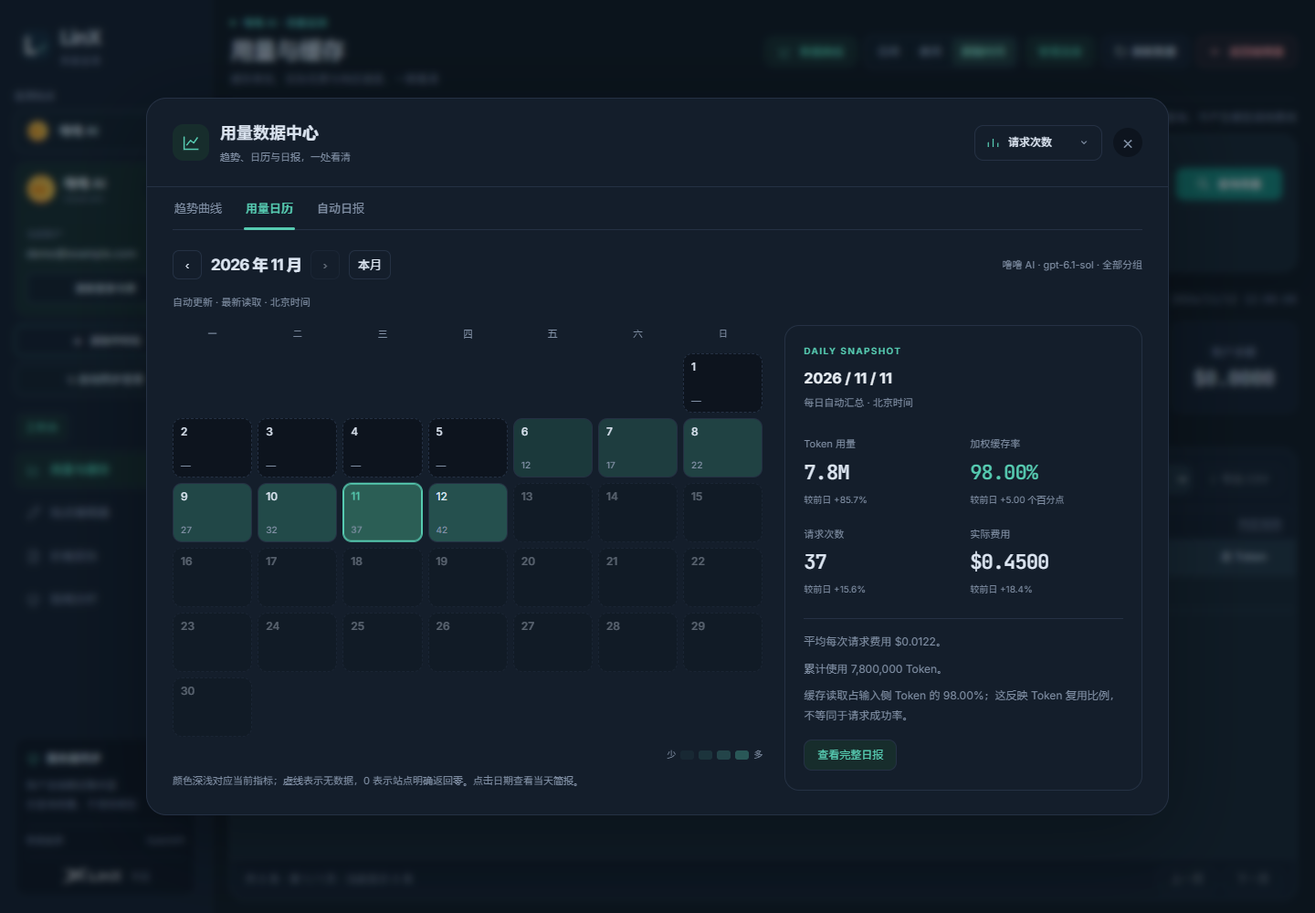
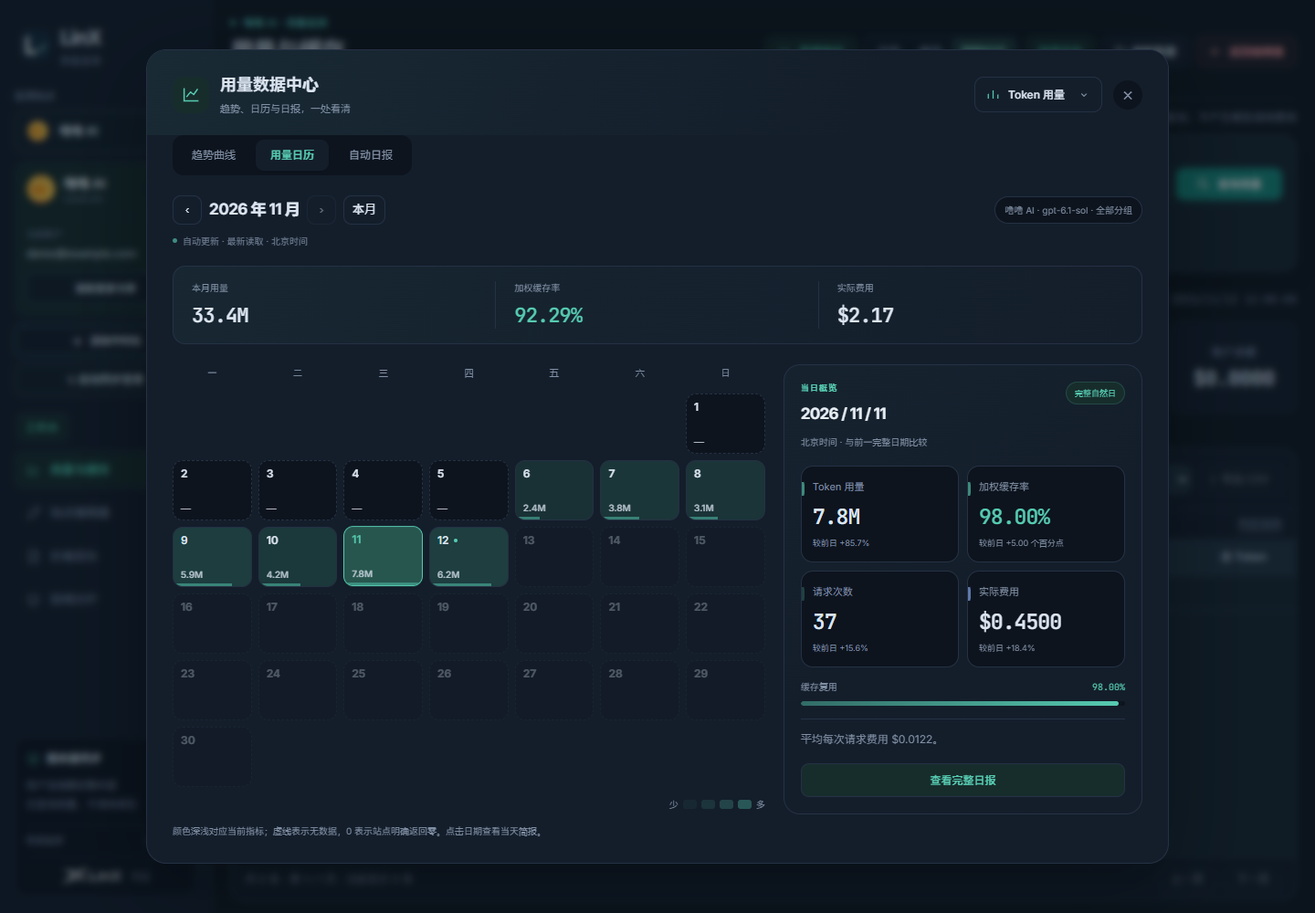
Share daily aggregates and refine usage insight views
Assisted-by: Cindy (https://cindy.app)

diff --git a/usage-trends.js b/usage-trends.js
@@ -9,6 +9,21 @@
  const el=id=>document.getElementById(id),canvas=panel.querySelector('canvas'),ctx=canvas.getContext('2d'),empty=panel.querySelector('.ut-empty'),tip=panel.querySelector('.ut-tip');
  let days='7',metric='total_tokens',points=[],lastKey='',lastFetch=0,controller=null,ticket=0,hover=-1,collapsed=false,latest=null;
  const trendMemory=new Map();let paintedKey='';
+ // One shared range and one in-flight request for all three views.
+ const dailyPool=new Map();
+ function connectionIdentity(sid){return typeof siteList==='undefined'?'':siteList.find(s=>s.site_id===sid)?.connected_at||''}
+ function sharedRange(q){const today=dateDay(new Date()),endMonth=q.end_date.slice(0,7),d=new Date(endMonth+'-01T12:00:00+08:00');d.setUTCMonth(d.getUTCMonth()-1);let start=dateDay(d);d.setUTCMonth(d.getUTCMonth()+2);let end=dateDay(new Date(+d-86400000));if(end>today)end=today;if(q.start_date<start)start=q.start_date;if(q.end_date>end)end=q.end_date;if((new Date(end)-new Date(start))/86400000>90)return {...q};return {...q,start_date:start,end_date:end}}
+ function poolEntry(q){const range=sharedRange(q),key=JSON.stringify([range,connectionIdentity(q.site_id)]);return {range,key,entry:dailyPool.get(key)}}
+ function cachedDaily(q){const {entry}=poolEntry(q);return entry?.data?{...entry.data,points:entry.data.points.filter(p=>p.date>=q.start_date&&p.date<=q.end_date)}:null}
+ async function readDaily(q){
+  const {range,key}=poolEntry(q);let entry=dailyPool.get(key);if(entry?.data&&Date.now()-entry.at<60000)return cachedDaily(q);
+  if(!entry){entry={};dailyPool.set(key,entry);if(dailyPool.size>20){const old=[...dailyPool].find(([k,v])=>k!==key&&!v.promise);if(old)dailyPool.delete(old[0])}}
+  if(entry.error&&Date.now()-entry.failedAt<10000)throw entry.error;
+  if(!entry.promise){const request=new AbortController(),timeout=setTimeout(()=>request.abort(),35000);const identity=connectionIdentity(q.site_id);
+   entry.promise=(async()=>{try{const r=await fetch('/api/cache/trend?'+new URLSearchParams(range),{cache:'no-store',signal:request.signal}),d=await r.json();if(!r.ok)throw Error(d.error||'暂时无法读取逐天统计');if(!Array.isArray(d.points))throw Error('该站暂未提供兼容的逐天统计');if(identity!==connectionIdentity(q.site_id))throw Error('连接已更新，正在重新准备统计');entry.data=d;entry.at=Date.now();entry.error=null;return d}catch(e){entry.error=e.name==='AbortError'?Error('统计读取超时，请稍后重试'):e;entry.failedAt=Date.now();throw entry.error}finally{clearTimeout(timeout);entry.promise=null}})();
+  }
+  await entry.promise;return cachedDaily(q)
+ }
  collapsed=true;el('utClose').textContent='×';el('utClose').setAttribute('aria-label','关闭数据趋势');panel.setAttribute('aria-label','用量与缓存趋势');
  // Refined controls remain inside the native dialog's focus boundary.
  const heading=panel.querySelector('.ut-title');heading.innerHTML='<span class="ut-title-icon"><svg viewBox="0 0 24 24" aria-hidden="true"><path d="M3 4v16h18M6 15l5-6 4 3 5-7"/></svg></span><span>用量与缓存趋势<small>每天的使用变化，一眼看清</small></span>';
@@ -47,7 +62,7 @@
   if(saved&&!force&&Date.now()-saved.at<60000){lastKey=key;lastFetch=saved.at;return}
   if(controller)controller.abort();controller=new AbortController();const own=controller,seq=++ticket;const changed=key!==lastKey;lastKey=key;
   if(changed&&!saved){points=[];paintedKey='';hover=-1;tip.hidden=true;draw();empty.textContent='正在读取逐天统计…';empty.hidden=false}
-  try{const r=await fetch('/api/cache/trend?'+new URLSearchParams(q),{cache:'no-store',signal:own.signal});const d=await r.json();if(seq!==ticket)return;if(!r.ok)throw Error(d.error||'趋势暂时不可用');if(!Array.isArray(d.points))throw Error('该站暂未提供逐天趋势');points=d.points;latest=d;lastFetch=Date.now();paintedKey=key;trendMemory.set(key,{data:d,at:lastFetch});if(trendMemory.size>20)trendMemory.delete(trendMemory.keys().next().value);empty.hidden=points.some(p=>p[metric]!=null||p.cache_rate!=null);empty.textContent='这段时间暂无可展示的统计';el('utContext').textContent=q.start_date.slice(5).replace('-','/')+' – '+q.end_date.slice(5).replace('-','/')+' · '+(q.model||'全部模型')+(q.group_id?' · 所选分组':' · 全部分组');draw()}
+  try{const d=await readDaily(q);if(seq!==ticket)return;points=d.points;latest=d;lastFetch=Date.now();paintedKey=key;trendMemory.set(key,{data:d,at:lastFetch});if(trendMemory.size>20)trendMemory.delete(trendMemory.keys().next().value);empty.hidden=points.some(p=>p[metric]!=null||p.cache_rate!=null);empty.textContent='这段时间暂无可展示的统计';el('utContext').textContent=q.start_date.slice(5).replace('-','/')+' — '+q.end_date.slice(5).replace('-','/')+' · '+(q.model||'全部模型')+(q.group_id?' · 所选分组':' · 全部分组');draw()}
   catch(e){if(seq!==ticket||e.name==='AbortError')return;empty.textContent=e.message;empty.hidden=false;lastFetch=Date.now()}
   finally{if(controller===own)controller=null}
  }
@@ -85,28 +100,29 @@
  function num(value,m='total_tokens'){if(value==null)return '—';if(m==='actual_cost')return '$'+Number(value).toFixed(value<1?4:2);return new Intl.NumberFormat('en',{notation:'compact',maximumFractionDigits:2}).format(value)}
  function node(tag,cls,text){const n=document.createElement(tag);if(cls)n.className=cls;if(text!=null)n.textContent=text;return n}
  function button(text,action,label){const b=node('button','',text);b.type='button';b.onclick=action;if(label)b.setAttribute('aria-label',label);return b}
- function insightQuery(){const q=query();if(!q)return null;const today=dateDay(new Date());let start,end;if(insightView==='report'){end=selectedDay;start=shiftDay(end,-1)}else{start=shiftDay(month+'-01',-1);const d=new Date(month+'-01T12:00:00+08:00');d.setUTCMonth(d.getUTCMonth()+1);end=shiftDay(dateDay(d),-1);if(end>today)end=today}return {...q,start_date:start,end_date:end}}
+ function insightQuery(){const q=query();if(!q)return null;const today=dateDay(new Date()),target=insightView==='report'?selectedDay.slice(0,7):month;const start=shiftDay(target+'-01',-7),d=new Date(target+'-01T12:00:00+08:00');d.setUTCMonth(d.getUTCMonth()+1);let end=shiftDay(dateDay(d),-1);if(end>today)end=today;return {...q,start_date:start,end_date:end}}
  async function loadInsights(force=false){
   if(insightView==='trend'||!panel.open)return;const q=insightQuery();if(!q)return;
   const identity=typeof siteList==='undefined'?'':siteList.find(s=>s.site_id===q.site_id)?.connected_at||'';
   const key=JSON.stringify([q,identity]);if(typeof connected==='undefined'||!connected){if(insightAbort)insightAbort.abort();insightAbort=null;insightKey='';insightGeneration++;insightData=null;insightError='请先连接站点账户，再查看用量日历和日报。';renderInsights();return}
   if(key===insightKey&&(insightAbort||(!force&&Date.now()-insightFetched<60000)))return;
   if(insightAbort)insightAbort.abort();insightAbort=new AbortController();const own=insightAbort,generation=++insightGeneration;
-  if(key!==insightKey){insightData=insightMemory.get(key)?.data||null;insightFetched=insightMemory.get(key)?.at||0;insightError='';insightKey=key;renderInsights()}
+  if(key!==insightKey){const shared=cachedDaily(q);insightData=shared||insightMemory.get(key)?.data||null;insightFetched=shared?poolEntry(q).entry.at:insightMemory.get(key)?.at||0;insightError='';insightKey=key;renderInsights()}
   if(!force&&insightData&&Date.now()-insightFetched<60000){insightAbort=null;return}
-  try{const response=await fetch('/api/cache/trend?'+new URLSearchParams(q),{cache:'no-store',signal:own.signal});const data=await response.json();if(generation!==insightGeneration)return;if(!response.ok)throw Error(data.error||'暂时无法读取逐天统计');if(!Array.isArray(data.points))throw Error('该站暂未提供兼容的逐天统计');insightData=data;insightError='';insightFetched=Date.now();insightMemory.set(key,{data,at:insightFetched});if(insightMemory.size>20)insightMemory.delete(insightMemory.keys().next().value);renderInsights()}
+  try{const data=await readDaily(q);if(generation!==insightGeneration)return;insightData=data;insightError='';insightFetched=Date.now();insightMemory.set(key,{data,at:insightFetched});if(insightMemory.size>20)insightMemory.delete(insightMemory.keys().next().value);renderInsights()}
   catch(e){if(generation!==insightGeneration||e.name==='AbortError')return;insightError=e.message;insightFetched=Date.now();renderInsights()}
   finally{if(insightAbort===own)insightAbort=null}
  }
  function comparison(current,previous,field,today){if(current==null)return '当天暂无该指标';if(today)return '今日进行中 · 不与昨日全天比较';if(previous==null)return '前一日无完整数据';const delta=current-previous;if(field==='cache_rate')return '较前日 '+(delta>0?'+':'')+delta.toFixed(2)+' 个百分点';if(previous===0)return delta===0?'与前日持平':'前一日为 0，不计算增幅';return '较前日 '+(delta>0?'+':'')+(delta/previous*100).toFixed(1)+'%'}
  function dailyCard(date,compactCard=false){
   const today=dateDay(new Date()),data=insightData?.points||[],p=data.find(p=>p.date===date),prev=data.find(p=>p.date===shiftDay(date,-1)),card=node('section','ui-card');
-  card.append(node('div','ui-kicker',compactCard?'DAILY SNAPSHOT':'DAILY BRIEF'),node('h3','',date.replaceAll('-',' / ')),node('div','ui-caption',date===today?'今日进行中 · 截至最新读取': '每日自动汇总 · 北京时间'));
+  const head=node('div','ui-card-heading'),title=node('div');title.append(node('div','ui-kicker',compactCard?'当日概览':'DAILY BRIEF / 每日简报'),node('h3','',date.replaceAll('-',' / ')));head.append(title,node('span','ui-day-status',date===today?'今日进行中':'完整自然日'));card.append(head,node('div','ui-caption',date===today?'截至最新读取 · 今日不与昨日全天比较':'北京时间 · 与前一完整日期比较'));
   if(!p||!['total_tokens','requests','actual_cost','cache_rate'].some(k=>p[k]!=null)){card.append(node('div','ui-message','这一天暂无可用统计。未返回的数据不会按 0 计算。'));return card}
-  const stats=node('div','ui-stats');for(const [field,label] of [['total_tokens','Token 用量'],['cache_rate','加权缓存率'],['requests','请求次数'],['actual_cost','实际费用']]){const cell=node('div');cell.append(node('span','',label),node('strong',field==='cache_rate'?'ui-rate':'',field==='cache_rate'?(p[field]==null?'—':p[field].toFixed(2)+'%'):num(p[field],field)),node('small','',comparison(p[field],prev?.[field],field,date===today)));stats.append(cell)}card.append(stats);
+  const stats=node('div','ui-stats');for(const [field,label] of [['total_tokens','Token 用量'],['cache_rate','加权缓存率'],['requests','请求次数'],['actual_cost','实际费用']]){const cell=node('div','ui-stat ui-stat-'+field);cell.append(node('span','',label),node('strong',field==='cache_rate'?'ui-rate':'',field==='cache_rate'?(p[field]==null?'—':p[field].toFixed(2)+'%'):num(p[field],field)));if(date!==today)cell.append(node('small','',comparison(p[field],prev?.[field],field,false)));stats.append(cell)}card.append(stats);
+  if(p.cache_rate!=null){const reuse=node('div','ui-reuse'),labels=node('div','ui-reuse-labels');labels.append(node('span','','缓存复用'),node('span','',p.cache_rate.toFixed(2)+'%'));const track=node('div','ui-reuse-track'),fill=node('i');fill.style.width=Math.max(0,Math.min(100,p.cache_rate))+'%';track.append(fill);reuse.append(labels,track);card.append(reuse)}
   const copy=node('div','ui-report-copy');if(p.requests!=null&&p.actual_cost!=null&&p.requests>0)copy.append(node('p','','平均每次请求费用 '+num(p.actual_cost/p.requests,'actual_cost')+'。'));
-  if(p.total_tokens!=null)copy.append(node('p','','累计使用 '+Number(p.total_tokens).toLocaleString('en-US')+' Token。'));
-  copy.append(node('p','',p.cache_rate==null?'缺少有效输入量，暂不计算缓存率。':'缓存读取占输入侧 Token 的 '+p.cache_rate.toFixed(2)+'%；这反映 Token 复用比例，不等同于请求成功率。'));card.append(copy);
+  if(p.total_tokens!=null&&!compactCard)copy.append(node('p','','累计使用 '+Number(p.total_tokens).toLocaleString('en-US')+' Token。'));
+  if(p.cache_rate==null)copy.append(node('p','','缺少有效输入量，暂不计算缓存率。'));card.append(copy);
   if(compactCard){const actions=node('div','ui-actions');actions.append(button('查看完整日报',()=>setInsightView('report')));card.append(actions)}return card
  }
  function renderInsights(){
@@ -117,23 +133,35 @@
   }else{toolbar.append(node('strong','','每日用量简报'));const date=node('input','ui-date');date.type='date';date.max=today;date.value=selectedDay;date.setAttribute('aria-label','日报日期');date.onchange=()=>{if(!/^\d{4}-\d{2}-\d{2}$/.test(date.value)||date.value>today)return;selectedDay=date.value;renderInsights();loadInsights()};toolbar.append(date,button('昨天',()=>{selectedDay=shiftDay(today,-1);renderInsights();loadInsights()}),button('今天',()=>{selectedDay=today;renderInsights();loadInsights()}))}
   const site=typeof siteList==='undefined'?null:siteList.find(s=>s.site_id===q?.site_id);toolbar.append(node('span','ui-caption ui-scope',(site?.name||site?.site_name||q?.site_id||'')+' · '+(q?.model||'全部模型')+' · '+(q?.group_id?'当前分组':'全部分组')));insights.append(toolbar);
   const state=node('div','ui-state');state.setAttribute('role','status');state.textContent=insightError?(insightData?'更新失败，以下为上次读取的统计：':'')+insightError:!insightData?'正在读取逐天统计…':'自动更新 · '+(insightData.fetched_at?new Date(insightData.fetched_at).toLocaleString('zh-CN',{timeZone:'Asia/Shanghai',hour12:false}):'最新读取')+' · 北京时间';insights.append(state);
-  if(!insightData){if(insightError)insights.append(button('重试',()=>loadInsights(true)));return}
+  if(!insightData){if(insightError)insights.append(button('重试',()=>loadInsights(true)));else{const skeleton=node('div','ui-loading');skeleton.setAttribute('aria-hidden','true');for(let i=0;i<6;i++)skeleton.append(node('i'));insights.append(skeleton)}return}
   if(insightView==='report'){
-   const grid=node('div','ui-report-grid');grid.append(dailyCard(selectedDay));const notes=node('div','ui-card');notes.append(node('div','ui-kicker','ABOUT THIS REPORT'),node('h3','','自动生成，无需整理'));const list=node('ul','ui-notes');for(const [title,text] of [['每天都有一份','根据站点逐天统计自动生成，打开即看；历史日报可通过日期切换。'],['遵循当前筛选','只统计当前站点、模型与分组，切换站点后自动更新。'],['比较有明确口径','完整日期与前一天比较；今天只展示累计，缺失数据保留为空。'],['统计来源','费用、请求数与 Token 来自中转站的日聚合接口；不把这些指标推断为失败扣费或验纯结论。']]){const li=node('li');li.append(node('b','',title),document.createTextNode(text));list.append(li)}notes.append(list);grid.append(notes);insights.append(grid);
+   const grid=node('div','ui-report-grid');grid.append(dailyCard(selectedDay),rhythmCard(selectedDay));insights.append(grid);
   }else{
+   insights.append(monthOverview());
    const layout=node('div','ui-layout'),left=node('div'),calendar=node('div','ui-calendar');calendar.setAttribute('aria-label',month+' 用量日历');
    for(const label of ['一','二','三','四','五','六','日'])calendar.append(node('div','ui-week',label));
    const first=new Date(month+'-01T12:00:00+08:00'),offset=(first.getUTCDay()+6)%7;for(let i=0;i<offset;i++)calendar.append(node('span'));
    const next=new Date(first);next.setUTCMonth(next.getUTCMonth()+1);const count=Number(shiftDay(dateDay(next),-1).slice(-2)),data=insightData.points.filter(p=>p.date.startsWith(month)),max=Math.max(0,...data.map(p=>p[metric]||0));
-   for(let day=1;day<=count;day++){const date=month+'-'+String(day).padStart(2,'0'),p=data.find(p=>p.date===date),value=p?.[metric],future=date>today,b=button('',()=>{selectedDay=date;renderInsights()});b.className='ui-day'+(value==null?' ui-missing':'');b.disabled=future;b.setAttribute('aria-pressed',String(date===selectedDay));b.setAttribute('aria-label',date+'，'+(future?'未来日期':value==null?'无数据':select.selectedOptions[0].textContent+' '+num(value,metric)));b.style.setProperty('--heat',value==null||!max?0:String(.05+.28*Math.sqrt(value/max)));b.append(node('span','',String(day)),node('small','',future?'':num(value,metric)));calendar.append(b)}
+   for(let day=1;day<=count;day++){const date=month+'-'+String(day).padStart(2,'0'),p=data.find(p=>p.date===date),value=p?.[metric],future=date>today,b=button('',()=>{selectedDay=date;renderInsights()});b.className='ui-day'+(value==null?' ui-missing':'')+(future?' ui-future':'')+(date===today?' ui-today':'');b.disabled=future;b.setAttribute('aria-pressed',String(date===selectedDay));b.setAttribute('aria-label',date+'，'+(future?'未来日期':value==null?'无数据':select.selectedOptions[0].textContent+' '+num(value,metric)));b.title=date+' · '+(future?'未来日期':value==null?'未返回数据':Number(value).toLocaleString('en-US'));b.style.setProperty('--heat',value==null||!max?0:String(.035+.22*Math.sqrt(value/max)));b.append(node('span','',String(day)),node('small','',future?'':num(value,metric)));if(value!=null){const meter=node('i','ui-day-meter');meter.style.width=(max?Math.max(3,value/max*100):0)+'%';b.append(meter)}calendar.append(b)}
    left.append(calendar);const legend=node('div','ui-legend');legend.append(document.createTextNode('少'));for(const opacity of [.06,.13,.22,.33]){const swatch=node('i');swatch.style.opacity=opacity;legend.append(swatch)}legend.append(document.createTextNode('多'));left.append(legend,node('div','ui-caption','颜色深浅对应当前指标；虚线表示无数据，0 表示站点明确返回零。点击日期查看当天简报。'));layout.append(left,dailyCard(selectedDay,true));insights.append(layout)
   }
+ }
+ function totals(data){const result={};for(const k of ['total_tokens','requests','actual_cost']){const known=data.filter(p=>p[k]!=null);result[k]=known.length?known.reduce((a,p)=>a+p[k],0):null}let denominator=0,read=0,complete=false;for(const p of data){if(p.total_tokens==null&&p.requests==null)continue;if([p.input_tokens,p.cache_creation_tokens,p.cache_read_tokens].some(v=>v==null)){return {...result,cache_rate:null}}complete=true;denominator+=p.input_tokens+p.cache_creation_tokens+p.cache_read_tokens;read+=p.cache_read_tokens}return {...result,cache_rate:complete&&denominator?read/denominator*100:null}}
+ function monthOverview(){const data=(insightData?.points||[]).filter(p=>p.date.startsWith(month)),sum=totals(data),strip=node('div','ui-month-overview');for(const [key,label] of [[metric,'本月'+(metric==='requests'?'请求':metric==='actual_cost'?'费用':'用量')],['cache_rate','加权缓存率'],[metric==='actual_cost'?'requests':'actual_cost',metric==='actual_cost'?'请求次数':'实际费用']]){const cell=node('div');cell.append(node('span','',label),node('strong','',key==='cache_rate'?(sum[key]==null?'—':sum[key].toFixed(2)+'%'):num(sum[key],key)));strip.append(cell)}const count=data.filter(p=>p[metric]!=null).length;strip.setAttribute('aria-label','本月已返回 '+count+' 天的统计汇总');strip.title='仅汇总已返回数据；未返回日期不按零计算';return strip}
+ function rhythmCard(date){
+  const card=node('section','ui-card ui-rhythm'),week=Array.from({length:7},(_,i)=>{const day=shiftDay(date,i-6);return (insightData?.points||[]).find(p=>p.date===day)||{date:day}}),summary=totals(week),valid=week.filter(p=>p.total_tokens!=null);
+  card.append(node('div','ui-kicker','PAST 7 DAYS'),node('h3','','近 7 日节奏'),node('div','ui-caption',week[0].date.slice(5).replace('-','/')+' — '+date.slice(5).replace('-','/')+' · '+valid.length+' 天有用量数据'));
+  const bars=node('div','ui-mini-bars'),max=Math.max(0,...week.map(p=>p.total_tokens||0));for(const p of week){const slot=node('div','ui-mini-slot'),track=node('div','ui-mini-track'),bar=node('i');if(p.total_tokens==null)track.classList.add('ui-no-value');else{bar.style.height=(max?Math.max(2,p.total_tokens/max*100):0)+'%';track.append(bar)}slot.title=p.date+' · '+num(p.total_tokens);slot.setAttribute('aria-label',slot.title);slot.append(track,node('span','',p.date.slice(8)));bars.append(slot)}card.append(bars);
+  const rows=node('div','ui-period-facts');for(const [label,value] of [['累计用量',num(summary.total_tokens)],['实际费用',num(summary.actual_cost,'actual_cost')],['请求次数',num(summary.requests)],['加权缓存率',summary.cache_rate==null?'—':summary.cache_rate.toFixed(2)+'%']]){const row=node('div');row.append(node('span','',label),node('strong','',value));rows.append(row)}card.append(rows);
+  const help=node('details','ui-method');help.append(node('summary','','统计口径'),node('p','','当前站点、模型及分组的日聚合数据；日期按北京时间。缓存率按输入 Token 加权，表示复用比例。未返回数据保留为空，今天为进行中。'));card.append(help);return card
  }
  function changeMonth(delta){const d=new Date(month+'-01T12:00:00+08:00');d.setUTCMonth(d.getUTCMonth()+delta);month=dateDay(d).slice(0,7);selectedDay=month===dateDay(new Date()).slice(0,7)?dateDay(new Date()):month+'-01';renderInsights();loadInsights()}
  select.addEventListener('change',renderInsights);openButton.addEventListener('click',()=>{if(insightView!=='trend')loadInsights()});
  let insightToday=dateDay(new Date());setInterval(()=>{const now=dateDay(new Date());if(now!==insightToday){if(month===insightToday.slice(0,7))month=now.slice(0,7);if(selectedDay===shiftDay(insightToday,-1))selectedDay=shiftDay(now,-1);insightToday=now;insightFetched=0}loadInsights()},1500);
  heading.querySelector('span:last-child').replaceChildren(document.createTextNode('用量数据中心'),node('small','','趋势、日历与日报，一处看清'));panel.setAttribute('aria-label','用量数据中心');
  insightsStyle.textContent+='html body#cache-dashboard #usageTrend .ui-day.ui-missing{border-style:dashed!important}html body#cache-dashboard #usageTrend .ui-toolbar button,html body#cache-dashboard #usageTrend .ui-date{background:var(--surface)!important;color:var(--ink)!important;border:1px solid var(--line)!important;color-scheme:light}html[data-theme=dark] body#cache-dashboard #usageTrend .ui-date{color-scheme:dark}';
+ insightsStyle.textContent+='#usageTrend .ut-head{background:linear-gradient(115deg,color-mix(in srgb,var(--brand) 7%,var(--surface)),var(--surface) 70%);border-bottom:0;padding-bottom:20px}#usageTrend .ui-tabs{gap:6px;border:0;padding:5px;background:var(--bg);border-radius:12px;margin-top:0;margin-bottom:2px;width:fit-content}#usageTrend .ui-tabs button{height:34px;padding:0 16px;border-radius:9px;font-size:12px}#usageTrend .ui-tabs button[aria-selected=true]{background:var(--surface)!important;box-shadow:0 2px 7px rgb(0 0 0 / .07)!important}#usageTrend .ui-tabs button[aria-selected=true]:after{display:none}#usageTrend .ui-content{padding-top:20px}#usageTrend .ui-toolbar{margin-bottom:9px;gap:8px}#usageTrend .ui-toolbar button{height:32px;border-radius:9px}#usageTrend .ui-state{font-size:10px;margin-bottom:18px;opacity:.85;display:flex;align-items:center;gap:6px}#usageTrend .ui-state:before{content:"";width:5px;height:5px;flex:none;background:var(--brand);border-radius:50%;opacity:.75}#usageTrend .ui-scope{font-size:10px;border:1px solid var(--line);border-radius:20px;padding:5px 10px;background:var(--bg)}#usageTrend .ui-card{background:linear-gradient(145deg,color-mix(in srgb,var(--brand) 3%,var(--surface)),var(--surface) 50%);padding:22px;border-radius:18px}#usageTrend .ui-card-heading{display:flex;align-items:flex-start;justify-content:space-between;gap:10px;margin-bottom:8px}#usageTrend .ui-card h3{font-size:19px;font-family:var(--linx-number-font,monospace);letter-spacing:-.04em;margin-bottom:0}#usageTrend .ui-kicker{font-size:9px;margin-bottom:10px;letter-spacing:.13em}#usageTrend .ui-day-status{background:var(--soft);color:var(--brand);border:1px solid color-mix(in srgb,var(--brand) 18%,transparent);border-radius:16px;padding:5px 9px;white-space:nowrap;font-size:9px}#usageTrend .ui-stats{gap:12px;margin:22px 0 18px}#usageTrend .ui-stat{border:1px solid var(--line);background:var(--bg);padding:16px;border-radius:13px;position:relative;overflow:hidden}#usageTrend .ui-stat:before{content:"";position:absolute;width:3px;top:17px;left:0;height:15px;border-radius:0 3px 3px 0;background:var(--brand);opacity:.65}#usageTrend .ui-stat-actual_cost:before{background:var(--info,#7c9cda)}#usageTrend .ui-stat-requests:before{opacity:.25}#usageTrend .ui-stats strong{font-size:25px;margin:11px 0 4px}#usageTrend .ui-report-grid .ui-stats strong{font-size:32px}#usageTrend .ui-stats small{font-size:10px;margin-top:9px}#usageTrend .ui-reuse{margin:18px 0 20px}#usageTrend .ui-reuse-labels{display:flex;justify-content:space-between;font-size:10px;color:var(--sub);margin-bottom:8px}#usageTrend .ui-reuse-labels span:last-child{font-family:var(--linx-number-font,monospace);color:var(--brand)}#usageTrend .ui-reuse-track{height:5px;border-radius:5px;background:var(--bg);overflow:hidden}#usageTrend .ui-reuse-track i{display:block;height:100%;background:linear-gradient(90deg,color-mix(in srgb,var(--brand) 45%,var(--surface)),var(--brand));border-radius:5px}#usageTrend .ui-report-copy{font-size:11px;padding-top:13px;line-height:1.8}#usageTrend .ui-report-copy p{margin-bottom:5px}#usageTrend .ui-report-grid{grid-template-columns:minmax(0,1.45fr) minmax(260px,1fr);align-items:start;gap:18px}#usageTrend .ui-rhythm h3{font-family:inherit;letter-spacing:0;font-size:17px;margin-bottom:8px}#usageTrend .ui-mini-bars{display:grid;grid-template-columns:repeat(7,minmax(0,1fr));gap:10px;margin:24px 0 18px}#usageTrend .ui-mini-track{height:96px;display:flex;align-items:flex-end;border-bottom:1px solid var(--line);padding:0 5px 0}#usageTrend .ui-mini-track i{display:block;width:100%;min-width:3px;border-radius:5px 5px 0 0;background:linear-gradient(0deg,color-mix(in srgb,var(--brand) 35%,var(--surface)),var(--brand));opacity:.8}#usageTrend .ui-mini-slot:last-child i{opacity:1}#usageTrend .ui-mini-slot span{display:block;text-align:center;font:10px var(--linx-number-font,monospace);color:var(--sub);margin-top:9px}#usageTrend .ui-no-value{border-bottom-style:dashed}#usageTrend .ui-period-facts>div{display:flex;align-items:center;justify-content:space-between;padding:12px 0;border-bottom:1px solid var(--line);gap:10px}#usageTrend .ui-period-facts span{color:var(--sub);font-size:11px}#usageTrend .ui-period-facts strong{font:550 15px var(--linx-number-font,monospace);color:var(--ink)}#usageTrend .ui-method{font-size:10px;color:var(--sub);line-height:1.9;margin-top:16px;border:0;padding:0;background:transparent}#usageTrend .ui-method summary{font-size:11px;cursor:pointer}#usageTrend .ui-method p{margin:8px 0 0}#usageTrend .ui-month-overview{display:grid;grid-template-columns:repeat(3,minmax(0,1fr));margin:0 0 22px;border:1px solid var(--line);border-radius:14px;background:linear-gradient(110deg,color-mix(in srgb,var(--brand) 5%,var(--surface)),var(--surface));padding:16px 0}#usageTrend .ui-month-overview>div{padding:0 20px;border-right:1px solid var(--line)}#usageTrend .ui-month-overview>div:last-child{border:0}#usageTrend .ui-month-overview span{display:block;font-size:10px;color:var(--sub)}#usageTrend .ui-month-overview strong{display:block;font:550 22px var(--linx-number-font,monospace);color:var(--ink);margin-top:8px;letter-spacing:-.04em}#usageTrend .ui-month-overview>div:nth-child(2) strong{color:var(--brand)}#usageTrend .ui-layout{gap:20px;align-items:start}#usageTrend .ui-calendar{gap:7px}html body#cache-dashboard #usageTrend .ui-day{height:66px;border-radius:11px;transition:border-color .15s,transform .15s,box-shadow .15s;isolation:isolate}#usageTrend .ui-day small{font-size:10px;font-weight:500;color:var(--ink);opacity:.8}#usageTrend .ui-day>span{font-size:12px;font-weight:600}html body#cache-dashboard #usageTrend .ui-day:not(:disabled):hover{transform:translateY(-2px);border-color:var(--brand)!important;box-shadow:0 4px 10px rgb(0 0 0 / .07)!important}#usageTrend .ui-day.ui-future{opacity:.3;border-color:transparent!important;background:transparent!important}#usageTrend .ui-day.ui-future:before{display:none}#usageTrend .ui-day.ui-today>span:after{content:"";display:inline-block;width:4px;height:4px;background:var(--brand);border-radius:50%;margin-left:5px;vertical-align:middle}#usageTrend .ui-day-meter{position:absolute;left:0;bottom:0;height:3px;background:var(--brand);opacity:.5}#usageTrend .ui-actions button{width:100%;height:37px;font-weight:600}#usageTrend .ui-caption{font-size:10px}@media(max-width:750px){#usageTrend .ui-report-grid{grid-template-columns:1fr}#usageTrend .ui-layout{grid-template-columns:1fr}#usageTrend .ui-card{padding:18px}#usageTrend .ui-stats{gap:10px}#usageTrend .ui-stat{padding:14px}#usageTrend .ui-report-grid .ui-stats strong{font-size:27px}#usageTrend .ui-month-overview>div{padding:0 12px}#usageTrend .ui-month-overview strong{font-size:18px}#usageTrend .ui-calendar{gap:5px}html body#cache-dashboard #usageTrend .ui-day{height:57px;border-radius:8px}#usageTrend .ui-day small{font-size:8px}#usageTrend .ui-tabs button{padding:0 12px;font-size:11px}#usageTrend .ui-scope{width:fit-content;max-width:100%;margin-top:3px}#usageTrend .ui-card h3{font-size:17px}#usageTrend .ui-stats strong{font-size:24px}#usageTrend .ui-day-status{font-size:8px;padding:5px 7px}}';
  document.addEventListener('visibilitychange',()=>{if(!document.hidden)loadInsights()});setInsightView('trend');
+ insightsStyle.textContent+='#usageTrend .ui-layout .ui-card{padding:18px}#usageTrend .ui-layout .ui-stats{margin:17px 0 12px;gap:9px}#usageTrend .ui-layout .ui-stat{padding:12px}#usageTrend .ui-layout .ui-stats strong{font-size:23px;margin:9px 0 3px}#usageTrend .ui-layout .ui-reuse{margin:14px 0}#usageTrend .ui-layout .ui-report-copy{padding-top:11px;font-size:10px}#usageTrend .ui-layout .ui-stats small{font-size:9px;margin-top:7px}#usageTrend .ui-layout .ui-card h3{font-size:17px}#usageTrend .ui-loading{display:grid;grid-template-columns:repeat(3,minmax(0,1fr));gap:14px;padding:12px 0}#usageTrend .ui-loading i{height:110px;border-radius:14px;border:1px solid var(--line);background:linear-gradient(100deg,var(--bg),var(--surface),var(--bg));background-size:200% 100%;animation:ui-shimmer 1.8s ease-in-out infinite}@keyframes ui-shimmer{to{background-position:-200% 0}}@media(prefers-reduced-motion:reduce){#usageTrend .ui-loading i{animation:none}#usageTrend .ui-day{transition:none!important}}@media(max-width:450px){#usageTrend .ui-month-overview strong{font-size:16px}#usageTrend .ui-month-overview>div{padding:0 9px}#usageTrend .ui-card-heading{gap:5px}#usageTrend .ui-loading{grid-template-columns:repeat(2,minmax(0,1fr))}#usageTrend .ui-layout .ui-stats strong{font-size:22px}#usageTrend .ui-day>span{font-size:11px}}';
  setInterval(()=>refresh(),1500);document.addEventListener('visibilitychange',()=>{if(!document.hidden)refresh()});
 })();

diff --git a/scripts/check_browser_sync_browser.py b/scripts/check_browser_sync_browser.py
@@ -64,8 +64,10 @@ def main():
                           'page_summary':{},'period_summary':{},'balance':0}
                 page.route('**/api/cache/snapshot?**',lambda route:route.fulfill(json=snapshot))
                 trend_points=[{'date':'2026-11-'+str(6+i).zfill(2),'total_tokens':v,'cache_rate':r,'requests':12+i*5,'actual_cost':.1+i*.07,'input_tokens':100-r,'cache_read_tokens':r,'cache_creation_tokens':0} for i,(v,r) in enumerate([(2400000,82),(3800000,91),(3100000,89),(5900000,96),(4200000,93),(7800000,98),(6200000,97)])]
+                trend_calls=[]
                 def trend_response(route):
                     q=parse_qs(urlparse(route.request.url).query)
+                    trend_calls.append(q)
                     pts=[] if q.get('model')==['fixture-other'] else [p for p in trend_points if q['start_date'][0]<=p['date']<=q['end_date'][0]]
                     route.fulfill(json={'points':pts,'site_id':q.get('site_id',['lulu'])[0]})
                 page.route('**/api/cache/trend?**',trend_response)
@@ -73,6 +75,7 @@ def main():
                 page.goto(origin+'/cache.html');page.wait_for_function('typeof siteList!=="undefined" && siteList.length && !busy')
                 assert not page.locator('#usageTrend').is_visible()
                 page.wait_for_function('document.querySelector("#utContext").textContent.includes("全部分组")')
+                assert len(trend_calls)==1,'background fetch should prepare all three views'
                 page.locator('#usageTrendOpen').click()
                 page.wait_for_function('document.querySelector("#utContext").textContent.includes("全部分组")')
                 page.screenshot(path=str(Path(tempfile.gettempdir())/'linx-usage-trends-light.png'))
@@ -95,6 +98,8 @@ def main():
                 page.locator('#usageTrendOpen').click()
                 page.locator('#uiTab-calendar').click()
                 page.wait_for_selector('.ui-day')
+                page.locator('#utPickerButton').click()
+                page.locator('#utPickerMenu [data-value="total_tokens"]').click()
                 page.locator('.ui-day[aria-label^="2026-11-11"]').click()
                 assert '7.8M' in page.locator('.ui-layout .ui-card').inner_text()
                 assert '98.00%' in page.locator('.ui-layout .ui-card').inner_text()
@@ -103,11 +108,13 @@ def main():
                 page.wait_for_selector('.ui-report-grid')
                 assert '+85.7%' in page.locator('.ui-report-grid').inner_text()
                 assert '+5.00' in page.locator('.ui-report-grid').inner_text()
+                assert len(trend_calls)==1,'calendar and report triggered duplicate upstream reads'
                 page.screenshot(path=str(Path(tempfile.gettempdir())/'linx-usage-report-dark.png'))
                 page.locator('.ui-date').fill('2026-11-05')
                 page.wait_for_function('document.querySelector(".ui-report-grid")?.textContent.includes("暂无可用统计")')
                 page.locator('.ui-date').fill('2026-11-11')
                 page.wait_for_function('document.querySelector(".ui-report-grid")?.textContent.includes("7.8M")')
+                assert len(trend_calls)==1,'changing the report day should reuse month aggregates'
                 original_model=page.evaluate('applied.model')
                 page.evaluate("applied.model='fixture-other'")
                 page.wait_for_function('document.querySelector(".ui-report-grid")?.textContent.includes("暂无可用统计")')
@@ -122,6 +129,12 @@ def main():
                 page.wait_for_selector('.ui-day')
                 assert page.locator('#uiInsights').evaluate('n=>n.scrollWidth<=n.clientWidth')
                 page.screenshot(path=str(Path(tempfile.gettempdir())/'linx-usage-calendar-mobile.png'))
+                page.set_viewport_size({'width':320,'height':740})
+                assert page.locator('#uiInsights').evaluate('n=>n.scrollWidth<=n.clientWidth')
+                page.locator('#uiTab-report').click()
+                assert page.locator('#uiInsights').evaluate('n=>n.scrollWidth<=n.clientWidth')
+                assert not page.locator('.ui-method').evaluate('n=>n.open')
+                page.set_viewport_size({'width':390,'height':844})
                 page.locator('#uiTab-trend').click()
                 page.keyboard.press('Escape')
                 page.set_viewport_size({'width':1440,'height':1000})

diff --git a/usage_trends.py b/usage_trends.py
@@ -6,6 +6,7 @@ import usage_sites
 from usage_dashboard import UsageError,SHANGHAI,number
 CACHE={}
 LOCK=threading.Lock()
+INFLIGHT={}
 
 def trend(params):
     get=lambda key,default='':str(params.get(key,[default])[0]).strip()
@@ -28,6 +29,41 @@ def trend(params):
     with LOCK:
         saved=CACHE.get(key)
         if saved and time.monotonic()-saved[0]<60:return saved[1]
+        # A month already read by another tab can also serve a shorter range.
+        for cached_key,(at,result) in reversed(list(CACHE.items())):
+            f=result['filters']
+            if (cached_key[:2]==key[:2] and time.monotonic()-at<60
+                and f.get('model','')==model and f.get('group_id','')==group
+                and f['start_date']<=str(start) and f['end_date']>=str(end)):
+                return dict(result,filters=filters,points=[p for p in result['points'] if str(start)<=p['date']<=str(end)])
+        flight=INFLIGHT.get(key)
+        owner=flight is None
+        if owner:
+            flight={'event':threading.Event(),'error':None}
+            INFLIGHT[key]=flight
+    if not owner:
+        if not flight['event'].wait(40):raise UsageError('统计读取超时，请稍后重试。',504,'TREND_TIMEOUT')
+        if flight['error'] is not None:raise flight['error']
+        if client.status().get('connected_at')!=identity:
+            raise UsageError('连接已变化，请重新读取趋势。',409,'CONNECT_REQUIRED')
+        return flight['result']
+    try:
+        result=_read(client,sid,identity,filters,start,end)
+        with LOCK:
+            if len(CACHE)>80:CACHE.clear()
+            CACHE[key]=(time.monotonic(),result)
+            flight['result']=result
+        return result
+    except Exception as error:
+        flight['error']=error
+        raise
+    finally:
+        with LOCK:
+            INFLIGHT.pop(key,None)
+            flight['event'].set()
+
+
+def _read(client,sid,identity,filters,start,end):
     raw=client.api('/api/v1/usage/dashboard/trend?'+urlencode(filters))
     if not isinstance(raw,dict) or not isinstance(raw.get('trend'),list):
         raise UsageError('该站暂未提供兼容的逐天趋势统计。',502,'TREND_UNAVAILABLE')
@@ -51,8 +87,4 @@ def trend(params):
         day+=timedelta(days=1)
     if client.status().get('connected_at')!=identity:
         raise UsageError('连接已变化，请重新读取趋势。',409,'CONNECT_REQUIRED')
-    result={'site_id':sid,'points':points,'filters':filters,'fetched_at':datetime.now(SHANGHAI).isoformat(timespec='seconds')}
-    with LOCK:
-        if len(CACHE)>80:CACHE.clear()
-        CACHE[key]=(time.monotonic(),result)
-    return result
+    return {'site_id':sid,'points':points,'filters':filters,'fetched_at':datetime.now(SHANGHAI).isoformat(timespec='seconds')}

diff --git a/tests/test_usage_trends.py b/tests/test_usage_trends.py
@@ -25,3 +25,31 @@ class TrendTests(unittest.TestCase):
             u.save_session(dict(u.load_session(),connected_at='changed'))
             t.trend(q);assert len(calls)==3
         ''')
+
+    def test_contained_range_and_simultaneous_read_share_upstream(self):
+        self.run_case('''
+            import usage_trends as t,usage_dashboard as u
+            import threading,time
+            from concurrent.futures import ThreadPoolExecutor
+            u.request=lambda *a,**k:{'id':1,'email':'demo@example.com'}
+            u.connect({'access_token':'fixture-token-for-testing-only'})
+            calls=[];started=threading.Event();release=threading.Event()
+            def upstream(path):
+                calls.append(path);started.set();assert release.wait(3)
+                return {'trend':[{'date':'2026-11-10','total_tokens':100,'requests':1}]}
+            u.api=upstream
+            q={k:[v] for k,v in {'site_id':'lulu','start_date':'2026-11-01','end_date':'2026-11-12','model':'gpt-6.1-sol'}.items()}
+            with ThreadPoolExecutor(max_workers=2) as pool:
+                first=pool.submit(t.trend,q);assert started.wait(2)
+                second=pool.submit(t.trend,q);time.sleep(.08);release.set()
+                a=first.result();b=second.result();assert a==b and len(calls)==1
+            smaller=dict(q,start_date=['2026-11-10'],end_date=['2026-11-11'])
+            result=t.trend(smaller);assert len(calls)==1
+            assert len(result['points'])==2 and result['points'][0]['total_tokens']==100
+            assert result['filters']['start_date']=='2026-11-10'
+            t.trend(dict(smaller,group_id=['2']));assert len(calls)==2
+            t.trend(dict(smaller,model=['other']));assert len(calls)==3
+            u.save_session(dict(u.load_session(),connected_at='changed'))
+            t.trend(smaller);assert len(calls)==4
+            assert not t.INFLIGHT
+        ''')

diff --git a/README.md b/README.md
@@ -55,7 +55,9 @@
 
 ### 用量日历与自动日报
 
-在用量页点击“数据曲线”，切换到用量日历或自动日报。日历按 Token、请求数或费用显示深浅，点击日期可查看简报；日报按当前站点、模型和分组自动生成，查看期间每分钟更新统计。完整日期与前一天比较，今天标记为进行中；缺失数据保留为空。日报为站内展示，不发送外部通知，数据取自兼容的中转站日聚合接口。
+在用量页点击“数据曲线”，切换到用量日历或自动日报。日历按 Token、请求数或费用显示深浅，提供本月汇总；日报按当前站点、模型和分组自动生成，展示缓存进度与近 7 日节奏。完整日期与前一天比较，今天标记为进行中；缺失数据保留为空。
+
+三个视图共享后台预取的逐天统计，同月切换日期无需重新读取。前后端均合并相同的并发请求，服务器可用已有较大范围的缓存响应较短范围查询；统计缓存为 60 秒。首次读取尚未缓存的日期范围仍取决于上游响应速度。日报为站内展示，不发送外部通知，数据取自兼容的中转站日聚合接口。
 
 ![用量日历·夜间](docs/screenshots/usage-calendar-dark.png)
 
